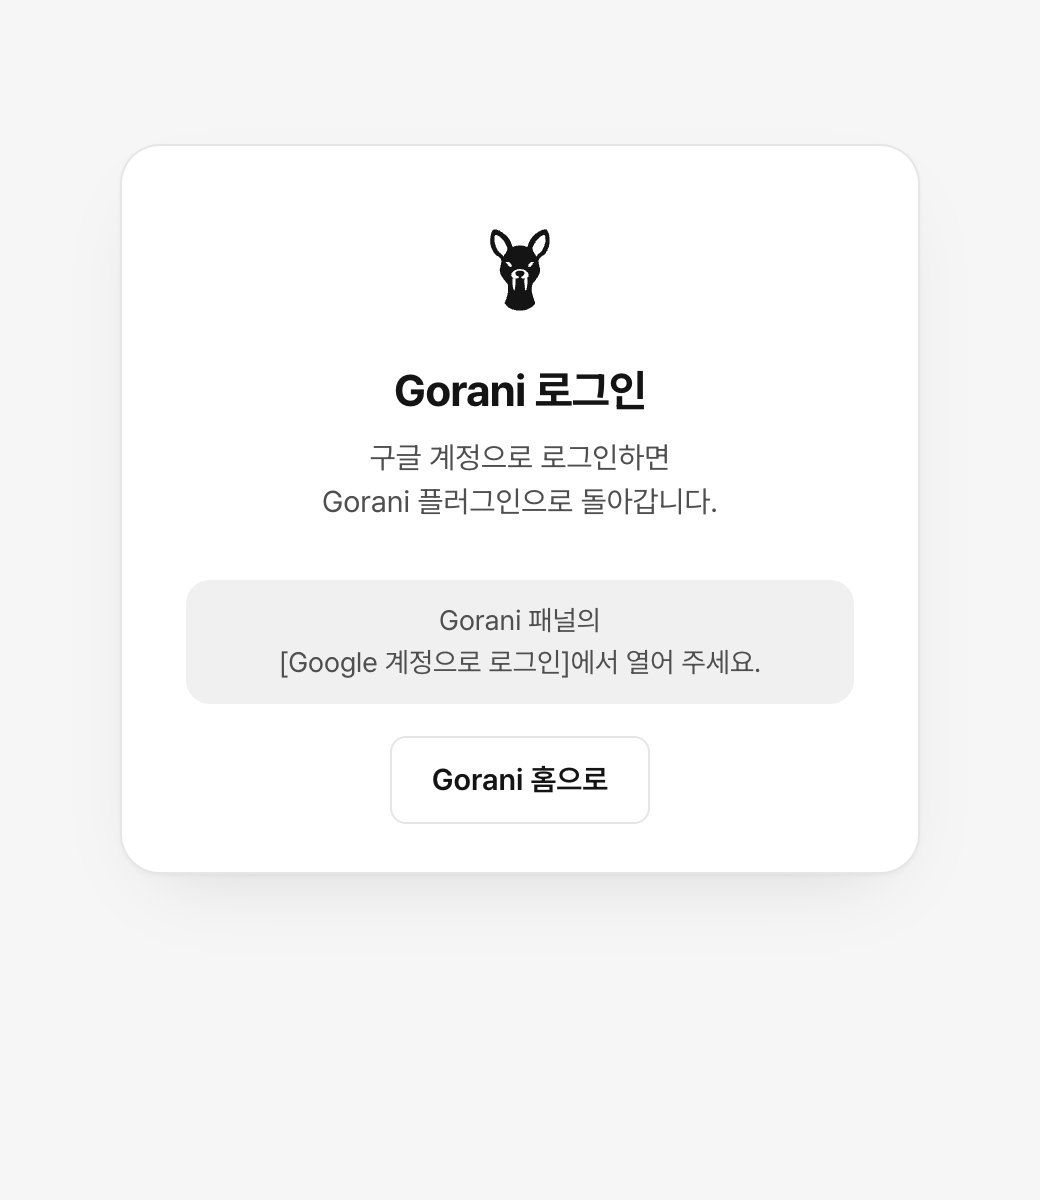
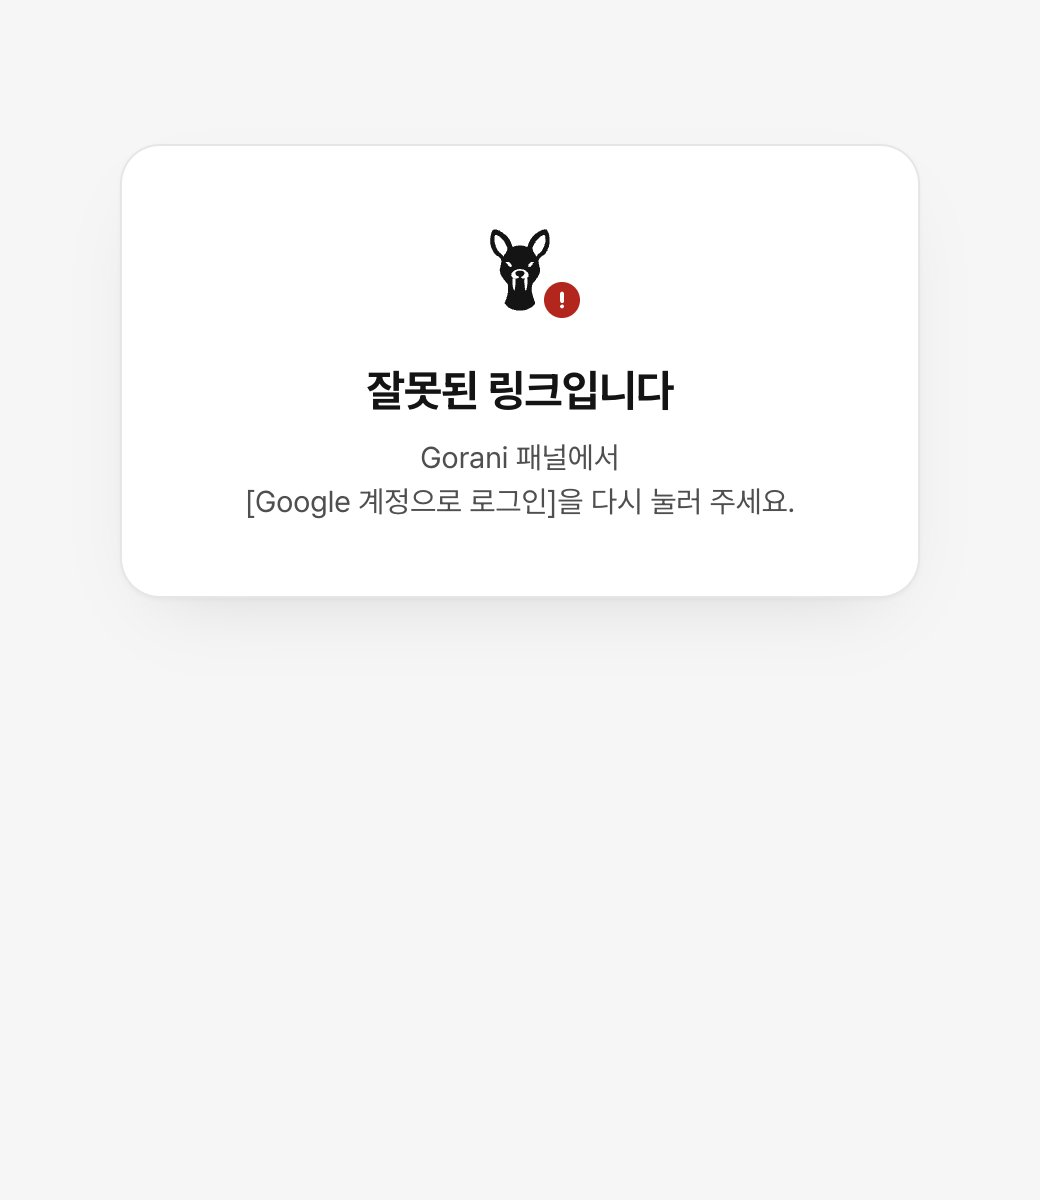
로그인 페이지: 잘못된 링크도 완료 페이지의 실패 화면과 같은 꼴로 — 마크에 !, '잘못된 링크입니다', 패널에서 다시 누르라는 한 줄(회색 칸·홈 버튼 뺌)

diff --git a/login/index.html b/login/index.html
@@ -16,8 +16,12 @@
   body { background: #F6F6F6; }
   .login { width: min(400px, 100% - 32px); margin: max(48px, 12vh) auto 48px; padding: 40px 32px 24px; border: 1px solid var(--hair); border-radius: 20px;
     background: var(--surface); box-shadow: 0 1px 2px rgba(20, 20, 20, .04), 0 16px 40px -20px rgba(20, 20, 20, .16); text-align: center; }
-  .login .home { display: inline-flex; color: var(--ink); }
+  .login .home { position: relative; display: inline-flex; color: var(--ink); }
   .login .mark { --s: 44px; }
+  .login .badge { position: absolute; right: -10px; bottom: -4px; display: grid; place-items: center; width: 22px; height: 22px; border: 2px solid var(--surface); border-radius: 50%;
+    background: #B3261E; color: var(--on-ink); }
+  .login .badge svg { width: 12px; height: 12px; }
+  .login.result { padding-bottom: 36px; }   /* 잘못된 링크 — 완료 페이지의 실패 화면과 같은 꼴 */
   .login h1 { margin-top: 16px; font-size: 22px; line-height: 30px; font-weight: 700; letter-spacing: -.02em; text-wrap: balance; }
   .login .sub { margin-top: 8px; color: var(--ink-2); font-size: 15px; line-height: 22px; white-space: pre-line; }
   .login .acts { display: grid; gap: 12px; margin-top: 28px; min-height: 44px; transition: opacity .2s; }
@@ -38,13 +42,11 @@
   .login .msg { display: flex; align-items: center; justify-content: center; gap: 8px; margin-top: 16px; color: var(--ink-2); font-size: 14px; line-height: 21px; white-space: pre-line; }
   .login .msg:empty { display: none; }
   .login .msg .run { --w: 24px; --h: 18px; color: var(--ink); }
-  .login .msg.err, .login .msg.info { padding: 10px 14px; border-radius: 12px; }
+  .login .msg.err { padding: 10px 14px; border-radius: 12px; }
   .login .msg.err { background: #FCEEEE; color: #B3261E; }
-  .login .msg.info { margin-top: 28px; background: var(--press); }
   .login .terms-note { margin-top: 24px; padding-top: 16px; border-top: 1px solid var(--hair); color: var(--ink-3); font-size: 12px; line-height: 18px; }
   .login .terms-note:empty { display: none; }
   .login .terms-note a { color: var(--ink-2); }
-  .login .to-home { margin-top: 16px; }
   @media (max-width: 480px) { .login { margin-top: 24px; padding: 32px 20px 20px; } }
   @media (prefers-reduced-motion: reduce) { .login .acts { transition: none; } .login .msg .run.go { animation: none; } }
 </style>
@@ -76,11 +78,11 @@
   var T = {
     ko: { title: "Gorani 로그인", sub: "구글 계정으로 로그인하면\nGorani 플러그인으로 돌아갑니다.", cont: "이 계정으로 계속", or: "또는",
       fine: '계속하면 <a href="../terms/">이용약관</a>과 <a href="../privacy/">개인정보 처리방침</a>에 동의합니다.<br>가입해도 결제는 없습니다.',
-      bad: "Gorani 패널의\n[Google 계정으로 로그인]에서 열어 주세요.", home: "Gorani 홈으로", homeUrl: "../",
+      badTitle: "잘못된 링크입니다", bad: "Gorani 패널에서\n[Google 계정으로 로그인]을 다시 눌러 주세요.",
       working: "로그인하는 중…", back: "Gorani로 돌아가는 중… 이 탭은 닫아도 됩니다.", fail: "로그인하지 못했습니다. 다시 시도해 주세요." },
     en: { title: "Sign in to Gorani", sub: "Sign in with your Google account\nand return to the Gorani plugin.", cont: "Continue with this account", or: "or",
       fine: 'By continuing you agree to the <a href="../en/terms/">Terms</a> and <a href="../en/privacy/">Privacy Policy</a>.<br>Membership is free.',
-      bad: "Open this page from\n[Sign in with Google] in the Gorani panel.", home: "Go to Gorani home", homeUrl: "../en/",
+      badTitle: "Invalid link", bad: "Press [Sign in with Google]\nin the Gorani panel again.",
       working: "Signing in…", back: "Returning to Gorani… You can close this tab.", fail: "Could not sign in. Please try again." }
   }[lang];
   document.documentElement.lang = lang;
@@ -89,7 +91,7 @@
   $("title").textContent = T.title;
   $("sub").textContent = T.sub;
   $("fine").innerHTML = T.fine;
-  // kind: "busy"(달리는 고라니 + 버튼을 잠근다) | "err" | "info" | 없음
+  // kind: "busy"(달리는 고라니 + 버튼을 잠근다) | "err" | 없음
   function msg(text, kind) {
     var m = $("msg");
     m.textContent = "";
@@ -101,11 +103,13 @@
 
   // 플러그인이 넘긴 값 — 받는 곳은 127.0.0.1의 그 포트뿐(아무 곳으로나 보내는 통로가 되지 않게)
   var port = Number(q.get("port")), state = q.get("state") || "", host = q.get("h") || "";
-  if (!(port >= 1024 && port <= 65535 && /^[A-Za-z0-9_-]{16,64}$/.test(state) && HOSTS.indexOf(host) >= 0)) {
-    msg(T.bad, "info");
+  if (!(port >= 1024 && port <= 65535 && /^[A-Za-z0-9_-]{16,64}$/.test(state) && HOSTS.indexOf(host) >= 0)) {   // 잘못된 링크 — 완료 페이지의 실패 화면과 같은 꼴(마크에 !, 패널에서 다시 누르라는 한 줄)
+    document.title = T.badTitle + " · Gorani";
+    $("title").textContent = T.badTitle;
+    $("sub").textContent = T.bad;
     $("fine").textContent = "";
-    var home = document.createElement("a"); home.className = "btn to-home"; home.href = T.homeUrl; home.textContent = T.home;
-    $("msg").after(home);
+    document.querySelector(".login").classList.add("result");
+    document.querySelector(".login .home").insertAdjacentHTML("beforeend", '<span class="badge err" aria-hidden="true"><svg viewBox="0 0 12 12" fill="none" stroke="currentColor" stroke-width="2" stroke-linecap="round"><path d="M6 2.8v3.8M6 9.2v.01"/></svg></span>');
     return;
   }
 
